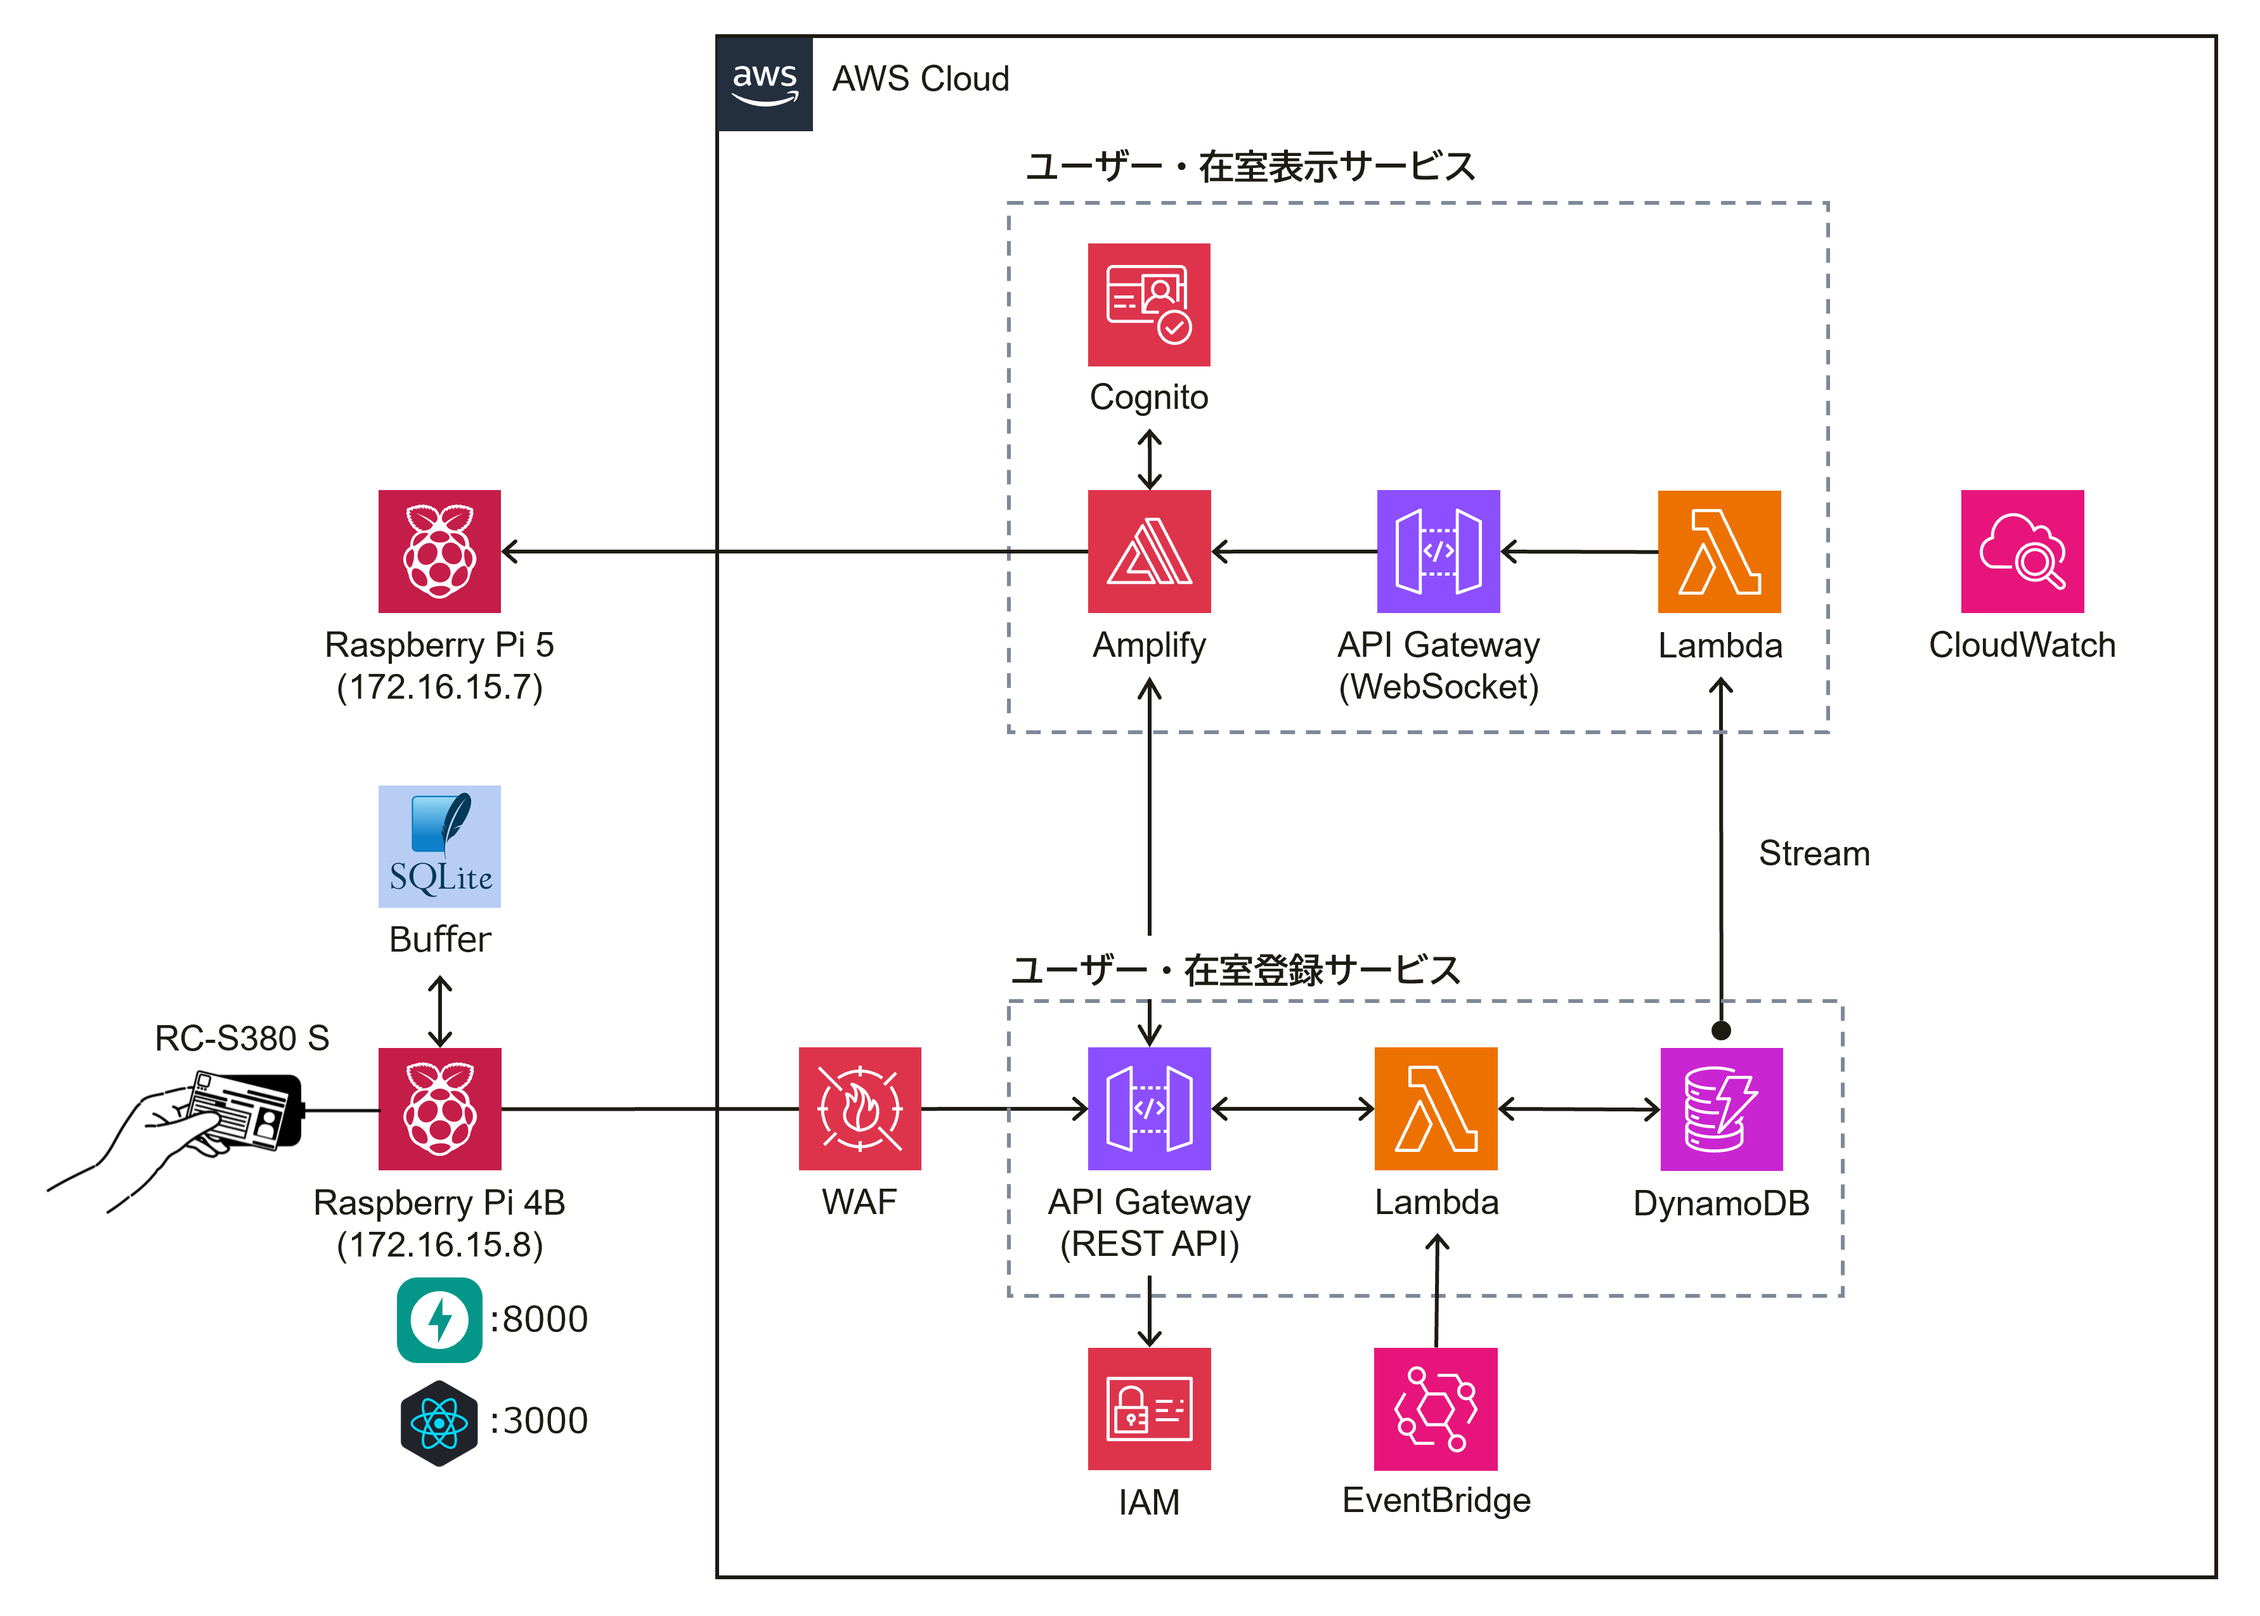
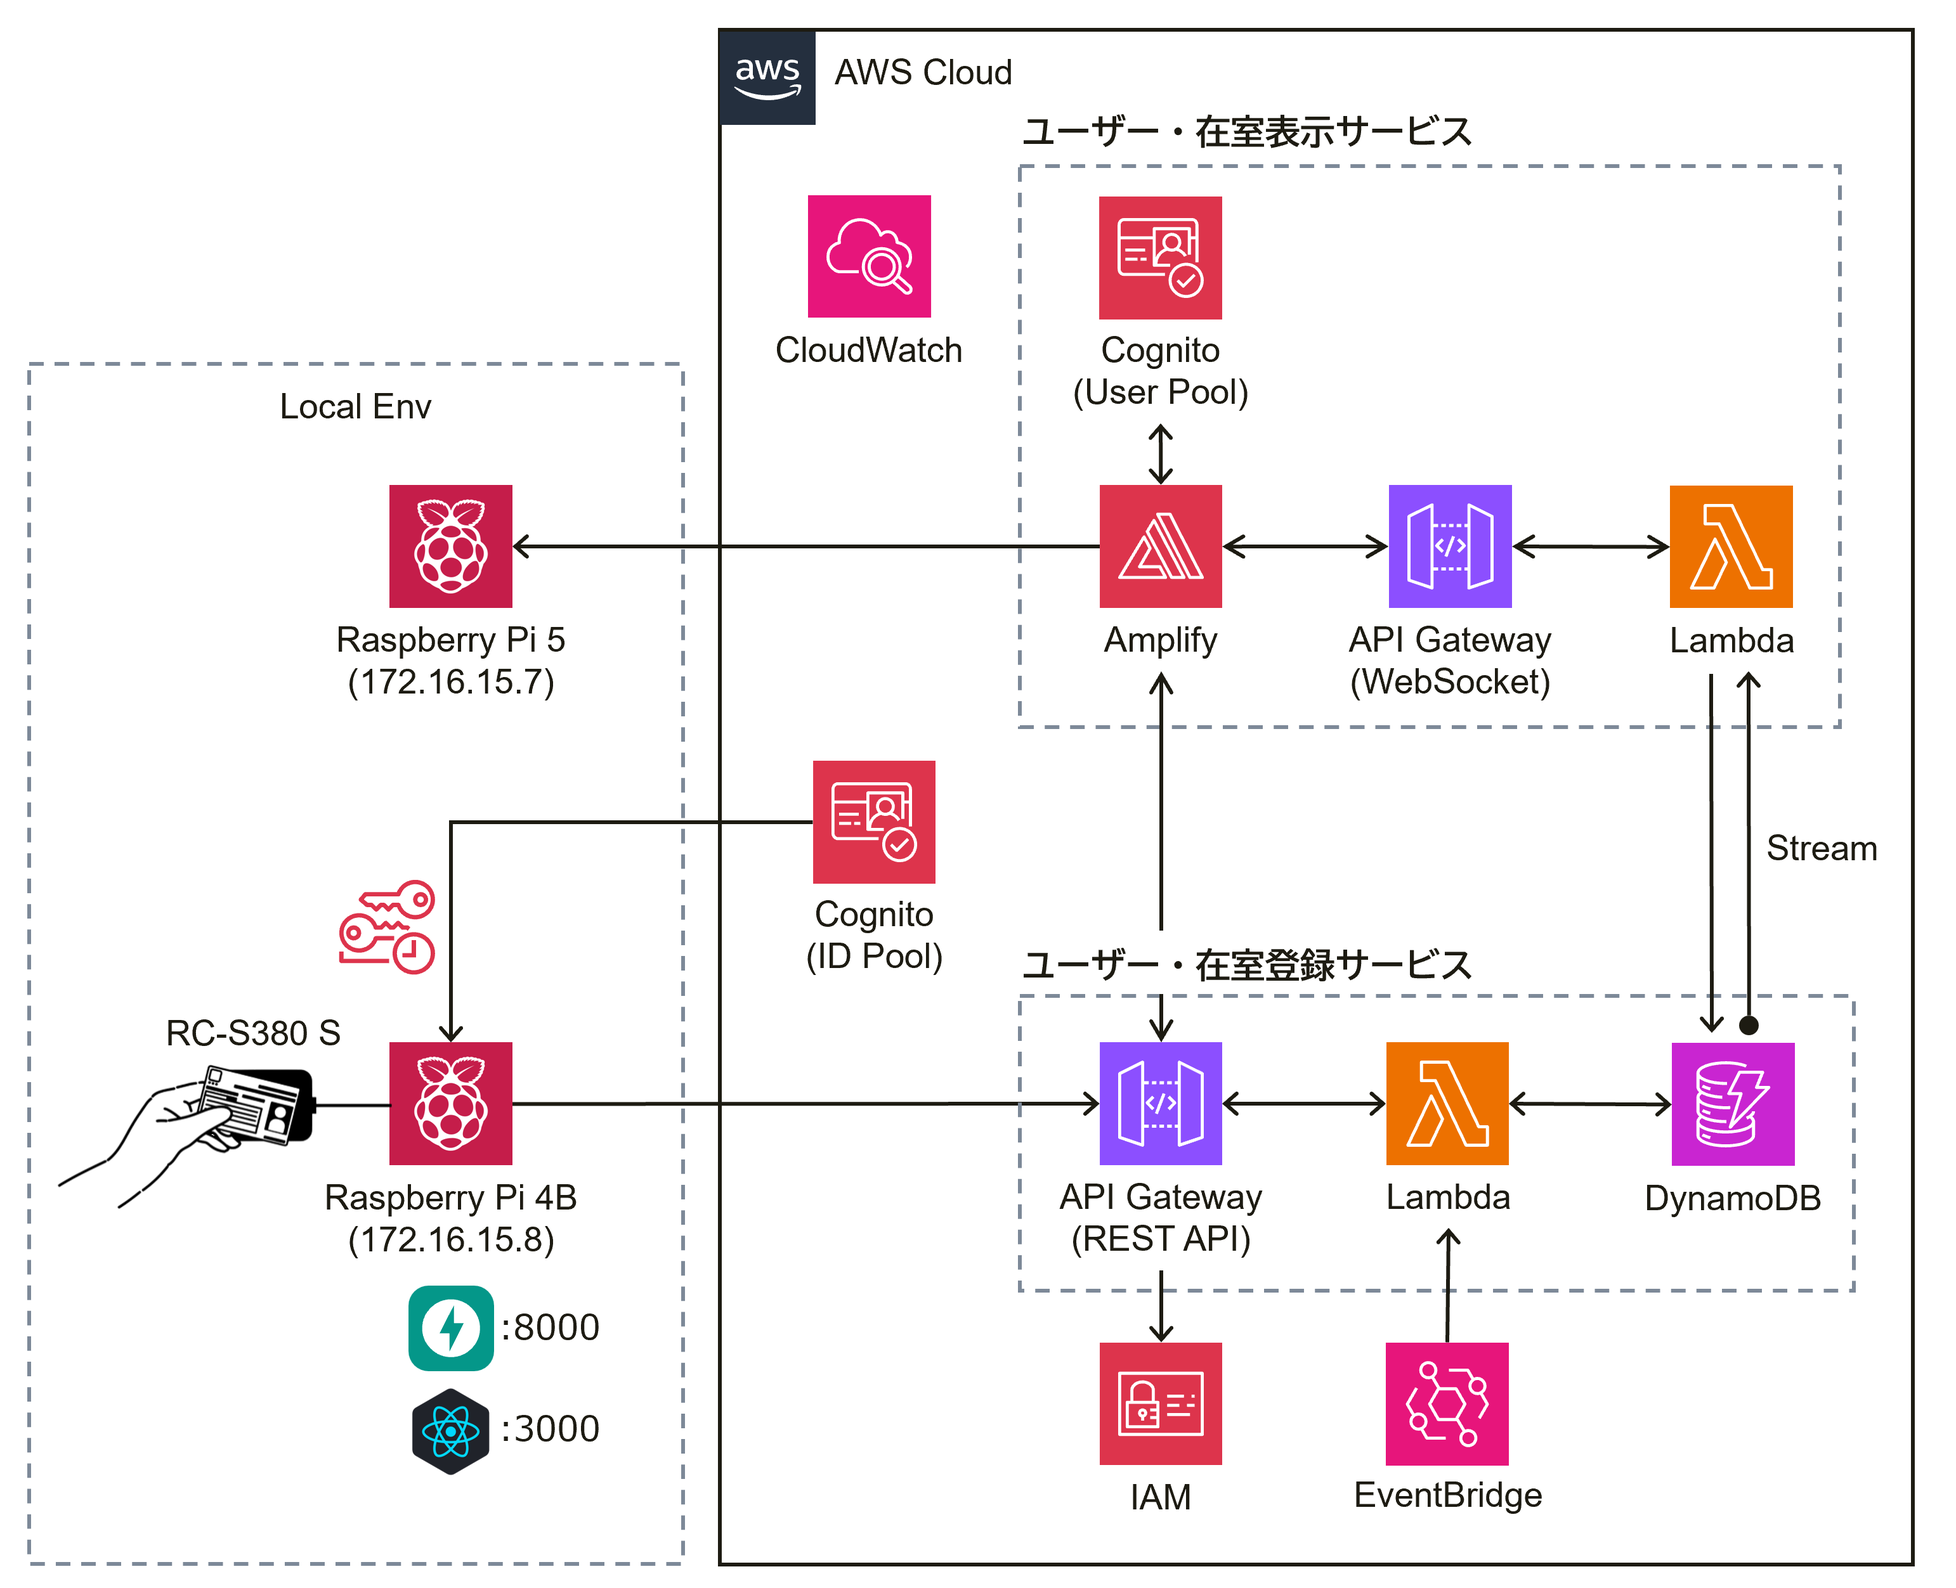
[add] 最新バージョン

diff --git a/attendance-reader/src/web/frontend/src/pages/RegisterAttendance/AttendanceCardWaitPage.tsx b/attendance-reader/src/web/frontend/src/pages/RegisterAttendance/AttendanceCardWaitPage.tsx
@@ -21,8 +21,8 @@ const AttendanceCardWaitPage = () => {
 			navigate('/', {
 				state: {
 					toast: success
-						? `在籍登録の受け付けに成功しました`
-						: `在籍登録の受け付けに失敗しました`
+						? `在室登録の受け付けに成功しました`
+						: `在室登録の受け付けに失敗しました`
 				}
 			});
 		};

diff --git a/attendance-reader/src/shared/aws_client.py b/attendance-reader/src/shared/aws_client.py
@@ -1,21 +1,43 @@
 import os
-
 from dotenv import load_dotenv
 
-from shared.api_client    import APIClient
-from shared.codec         import Codec
-from shared.config        import LOG_PATHS
-from shared.error_handler import ErrorHandler
+from shared.api_client     import APIClient
+from shared.cognito_client import CognitoClient
+# from shared.sm_client      import SMClient
+from shared.codec          import Codec
+from shared.config         import LOG_PATHS
+from shared.error_handler  import ErrorHandler
 
 # 初期化
 load_dotenv()
-client = APIClient(
-    access_key   = os.getenv("ACCESS_KEY"),
-    secret_key   = os.getenv("SECRET_KEY"),
-    resource_id  = os.getenv("RESOURCE_ID"),
-    service_name = os.getenv("SERVICE_NAME"),
-    region_name  = os.getenv("REGION_NAME"),
-    x_api_key    = os.getenv("X_API_KEY")
+
+# 一時的な認証情報を取得する
+cognito_client = CognitoClient(
+    identity_pool_id = os.getenv("IDENTITY_POOL_ID"),
+    region_name      = os.getenv("REGION_NAME")
+)
+cognito_creds = cognito_client.get_cognito_credentials()
+
+# SecretManagerからAPIキーを取得する
+# sm_client = SMClient(
+#     region_name   = os.getenv("REGION_NAME"),
+#     access_key    = cognito_creds["access_key"],
+#     secret_key    = cognito_creds["secret_key"],
+#     session_token = cognito_creds["session_token"],
+#     secret_arn    = os.getenv("SECRET_ARN")
+# )
+# sm_creds = sm_client.get_api_key()
+
+
+api_client = APIClient(
+    access_key    = cognito_creds["access_key"],
+    secret_key    = cognito_creds["secret_key"],
+    session_token = cognito_creds["session_token"],
+    resource_id   = os.getenv("RESOURCE_ID"),
+    service_name  = os.getenv("SERVICE_NAME"),
+    region_name   = os.getenv("REGION_NAME"),
+    x_api_key     = os.getenv("X_API_KEY")
+    # x_api_key     = sm_creds["x-api-key"]
 )
 
 logger = ErrorHandler(log_file=str(LOG_PATHS["aws_client"]))
@@ -28,7 +50,7 @@ def register_user(id: str, name: str, grade:str):
         "grade": Codec.base64_encode(grade)
     }
     try:
-        res = client.send_request("v1/user", "POST", data=data)
+        res = api_client.send_request("v1/user", "POST", data=data)
         return res.json()
 
     except Exception as e:
@@ -42,9 +64,37 @@ def register_attendance(id: str, status: str):
         "status": Codec.base64_encode(status)
     }
     try:
-        res = client.send_request("v1/attendance", "POST", data=data)
+        res = api_client.send_request("v1/attendance", "POST", data=data)
         return res.json()
 
     except Exception as e:
         logger.log_error(f"Attendance registration failed: {e}")
         raise
+
+
+# if __name__ == '__main__':
+#     """
+#     このスクリプトが直接実行された場合に、以下の処理を行う
+#     (例: python -m shared.aws_client)
+#     """
+#     try:
+#         print("--- Main process started ---")
+        
+#         # 例として、勤怠登録APIを呼び出す
[1 lines of base64/hex data omitted]
+#         status = "clock_in"
+        
+#         print(f"Attempting to register attendance for user: {user_id}")
+#         response = register_attendance(id=user_id, status=status)
+        
+#         print("--- API call successful ---")
+#         print("Status Code:", response.get("statusCode") or "N/A")
+#         print("Response Body:", response.get("body") or "N/A")
+
+#     except Exception as e:
+#         # logger を使ってエラーを記録することも可能
+#         logger.log_error(f"An error occurred in the main process: {e}")
+#         print(f"An error occurred in the main process: {e}")
+    
+#     finally:
+#         print("--- Script finished ---")

diff --git a/attendance-reader/src/shared/api_client.py b/attendance-reader/src/shared/api_client.py
@@ -8,9 +8,9 @@ from botocore.credentials import Credentials
 
 class APIClient:
     """APIクライアントクラス"""
-    def __init__(self, access_key:str, secret_key:str, resource_id:str, service_name:str, region_name:str, x_api_key:str) -> None:
+    def __init__(self, access_key:str, secret_key:str, session_token: str, resource_id:str, service_name:str, region_name:str, x_api_key:str) -> None:
         """コンストラクタ"""
-        self.credentials  = Credentials(access_key=access_key, secret_key=secret_key)
+        self.credentials  = Credentials(access_key=access_key, secret_key=secret_key, token=session_token)
         self.resource_id  = resource_id
         self.service_name = service_name
         self.region_name  = region_name
@@ -30,13 +30,17 @@ class APIClient:
 
     def _get_headers(self, request:AWSRequest) -> dict:
         """リクエストヘッダーを取得する"""
-        return {
+        headers = {
             "Authorization": request.headers["Authorization"],
             "Host"         : self.host,
             "X-Amz-Date"   : request.headers["X-Amz-Date"],
             "X-Api-Key"    : self.x_api_key,
             "Content-Type" : "application/json"
         }
+        # botocoreが署名時に自動で追加したセッショントークンヘッダーをコピー
+        if "X-Amz-Security-Token" in request.headers:
+            headers["X-Amz-Security-Token"] = request.headers["X-Amz-Security-Token"]
+        return headers
 
     def send_request(self, stage_name:str, method:str, params:dict=None, data:dict=None, timeout:int=10):
         """リクエストを送信する"""

diff --git a/attendance-reader/src/shared/cognito_client.py b/attendance-reader/src/shared/cognito_client.py
@@ -1,0 +1,26 @@
+import boto3
+
+class CognitoClient:
+    """Cognitoクライアントクラス"""
+    def __init__(self, identity_pool_id: str, region_name: str) -> None:
+        """コンストラクタ"""
+        self.identity_pool_id = identity_pool_id
+        self.region_name      = region_name
+
+    def get_cognito_credentials(self) -> dict:
+        """Cognitoから一時的なAWS認証情報を取得する"""
+        cognito_client = boto3.client("cognito-identity", region_name=self.region_name)
+
+        # CognitoからIDを取得
+        response_id = cognito_client.get_id(IdentityPoolId=self.identity_pool_id)
+        identity_id = response_id['IdentityId']
+
+        # 取得したIDを使って一時的なAWS認証情報を取得
+        response_creds = cognito_client.get_credentials_for_identity(IdentityId=identity_id)
+        credentials    = response_creds['Credentials']
+
+        return {
+            "access_key"   : credentials['AccessKeyId'],
+            "secret_key"   : credentials['SecretKey'],
+            "session_token": credentials['SessionToken']
+        }

diff --git a/attendance-reader/src/shared/sm_client.py b/attendance-reader/src/shared/sm_client.py
@@ -1,0 +1,27 @@
+import json
+import boto3
+
+class SMClient:
+    """SecretManagerクライアントクラス"""
+    def __init__(self, region_name: str, access_key: str, secret_key: str, session_token: str, secret_arn: str) -> None:
+        """コンストラクタ"""
+        self.region_name   = region_name
+        self.access_key    = access_key
+        self.secret_key    = secret_key
+        self.session_token = session_token
+        self.secret_arn    = secret_arn
+
+    def get_api_key(self) -> dict:
+        """SecretManagerからAPIキーを取得する"""
+        sm_client = boto3.client(
+            "secretsmanager",
+            region_name           = self.region_name,
+            aws_access_key_id     = self.access_key,
+            aws_secret_access_key = self.secret_key,
+            aws_session_token     = self.session_token
+        )
+        secret_response = sm_client.get_secret_value(SecretId=self.secret_arn)
+
+        return {
+            "x-api-key": json.loads(secret_response['SecretString'])['x-api-key']
+        }

diff --git a/attendance-reader/src/test_aws_client.py b/attendance-reader/src/test_aws_client.py
@@ -1,0 +1,23 @@
+from shared.aws_client import register_attendance, register_user
+
+if __name__ == "__main__":
+    # テストデータ
+    test_nfc_id = "test_id"
+    test_name   = "test_name"
+    test_status = "clock_out"
+
+    print("ユーザー登録")
+    try:
+        res = register_user(id=test_nfc_id, name=test_name, grade="M2")
+        print(res)
+
+    except Exception as e:
+        print(f"ユーザー登録に失敗しました: {e}")
+
+    print("勤怠登録")
+    try:
+        res = register_attendance(id=test_nfc_id, status=test_status)
+        print(res)
+
+    except Exception as e:
+        print(f"勤怠登録に失敗しました: {e}")

diff --git a/attendance-reader/src/test_task_handler.py b/attendance-reader/src/test_task_handler.py
@@ -1,0 +1,27 @@
+from worker.task_handler import handle_task
+
+if __name__ == "__main__":
+    # テスト用のタスク
+    task = {
+        "job_type": "register_user",
+        "params": {
+            "id"  : "test_id",
+            "name": "test_name",
+            "grade": "M2"
+        }
+    }
+    # タスクハンドラを実行
+    res = handle_task(task)
+    print(res)
+
+    # テスト用のタスク
+    task = {
+        "job_type": "register_attendance",
+        "params": {
+            "id"    : "test_id",
+            "status": "clock_in"
+        }
+    }
+    # タスクハンドラを実行
+    res = handle_task(task)
+    print(res)

diff --git a/attendance-reader/src/app/main.py b/attendance-reader/src/app/main.py
@@ -1,16 +1,17 @@
-from fastapi                 import FastAPI
+from fastapi import FastAPI
 from fastapi.middleware.cors import CORSMiddleware
 
 from app.api import attendance, card, user
 
 # FastAPIアプリケーションのインスタンスを作成
 app = FastAPI()
-# CORSミドルウェアの設定
+
+# CORSミドルウェアを設定
 app.add_middleware(
     CORSMiddleware,
-    allow_origins=["*"],
+    allow_origins=["http://172.16.15.8:3000"],
     allow_credentials=True,
-    allow_methods=["*"],
+    allow_methods=["GET", "POST"],
     allow_headers=["*"],
 )
 

diff --git a/attendance-reader/src/test_post_attendance.py b/attendance-reader/src/test_post_attendance.py
@@ -1,0 +1,21 @@
+import requests
+
+URL = "http://localhost:8000/v1/attendance/"
+
+# テストデータ
+test_payload = {
+    "id"    : "test_id",
+    "status": "clock_in",
+}
+
+def test_post_attendance():
+    try:
+        response = requests.post(URL, json=test_payload)
+        print(f"Status Code: {response.status_code}")
+        print("Response JSON:", response.json())
+
+    except Exception as e:
+        print(f"Request failed: {e}")
+
+if __name__ == "__main__":
+    test_post_attendance()

diff --git a/attendance-reader/src/test_post_user.py b/attendance-reader/src/test_post_user.py
@@ -1,0 +1,22 @@
+import requests
+
+URL = "http://localhost:8000/v1/user/"
+
+# テストデータ
+test_payload = {
+    "id"  : "test_id",
+    "name": "test_name",
+    "grade": "M2"
+}
+
+def test_post_user():
+    try:
+        response = requests.post(URL, json=test_payload)
+        print(f"Status Code: {response.status_code}")
+        print("Response JSON:", response.json())
+
+    except Exception as e:
+        print(f"Request failed: {e}")
+
+if __name__ == "__main__":
+    test_post_user()
